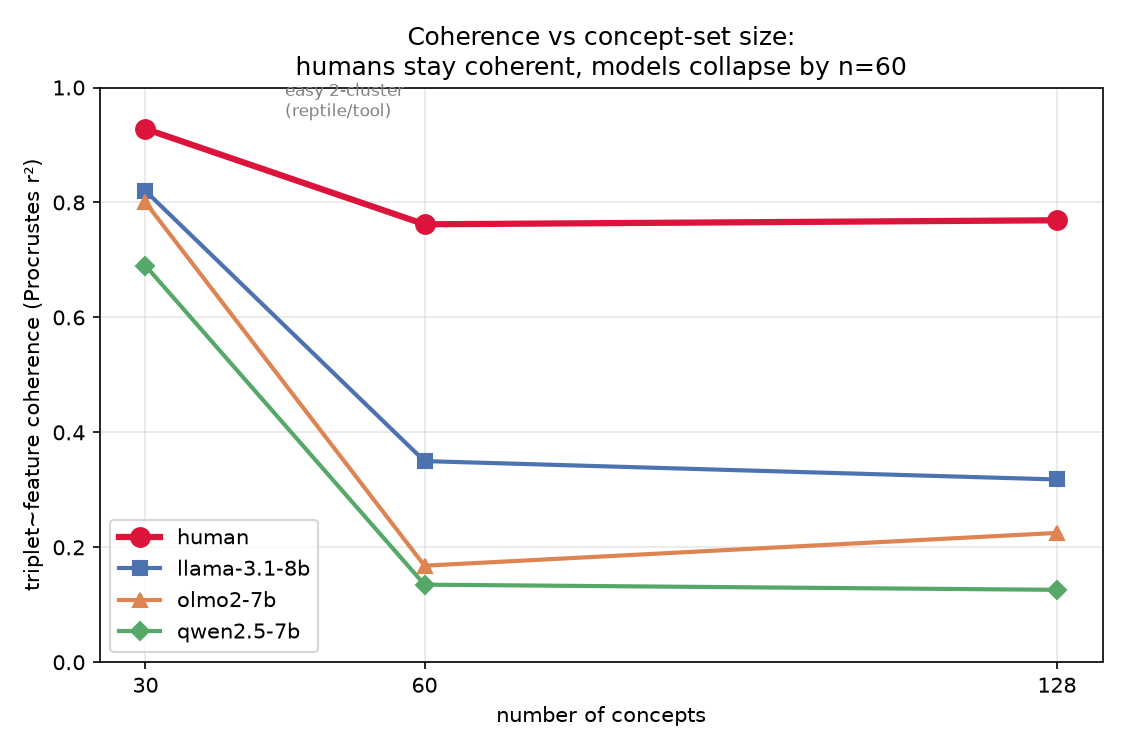
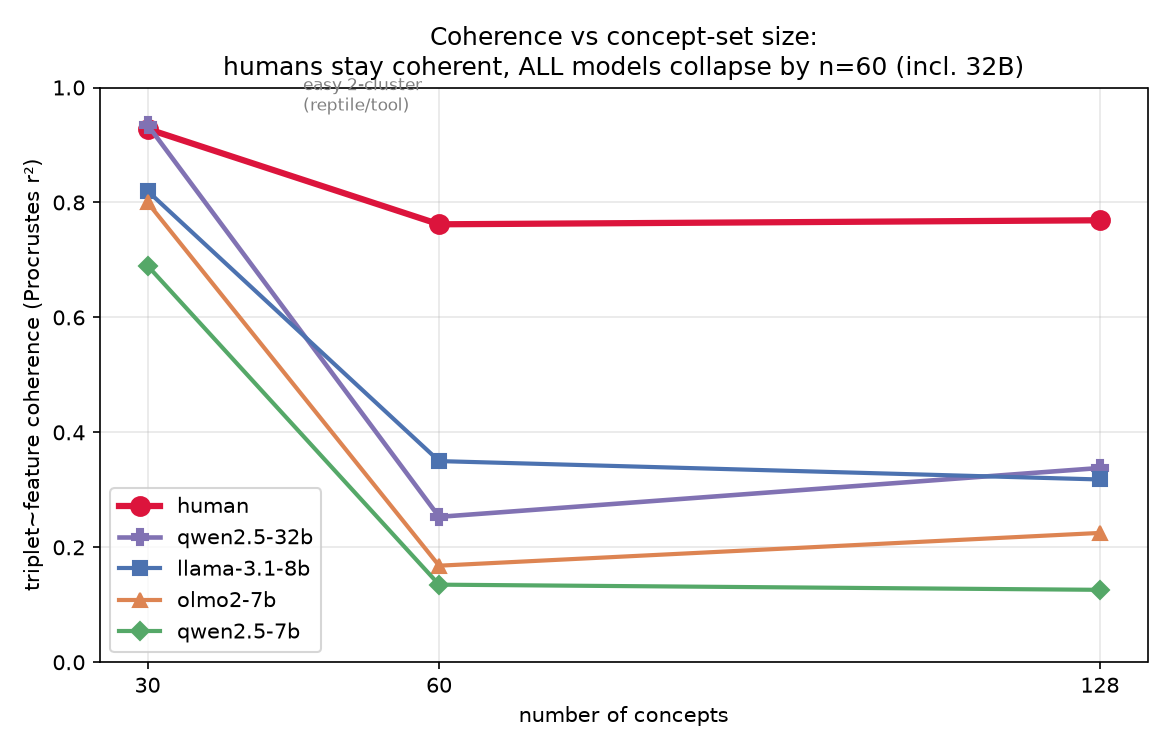
qwen-32b completes scale curve: 0.94(n30)->0.25(n60)->0.34(n128). LARGEST model, HIGHEST n=30 coherence, collapses just as hard. Size does not protect; kills 'only small models collapse' objection

diff --git a/data/scale60/RESULT.md b/data/scale60/RESULT.md
@@ -13,3 +13,10 @@ all). 30 concepts = 2 clusters (reptile/tool) is uniquely easy and inflates mode
 by 60 diverse concepts the model<->human gap is fully open and stable. Humans drop modestly
 (0.93->0.76) and hold; models drop by half-to-two-thirds and stay down.
 (qwen2.5-32b @ n60/n128 pending H100 auth.)
+
+## qwen-32b added (H100 auth restored)
+qwen2.5-32b: n=30 0.94 -> n=60 0.25 -> n=128 0.34 (held-out triplet acc n=60: 0.78).
+The LARGEST open model had the HIGHEST n=30 coherence (0.94, human-level) yet collapses
+just as hard. Model size does NOT protect against the scale collapse; near-human coherence
+at n=30 was the easy-2-cluster artifact for every model. Kills the "only small models
+collapse" objection.
